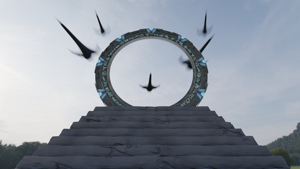
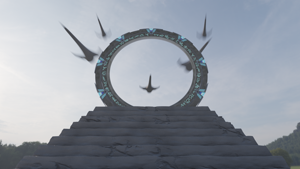
Add atmospherics to stargate

diff --git a/content/Renders/index.md b/content/Renders/index.md
@@ -43,7 +43,7 @@ All tools, textures, and tutorials used are listed below.
 {{< render_img
   description="A Stargate was one of the first things I wanted to make. Finally got around to it!"
   renderdate="2021-4-20"
-  rendertime="5 seconds"
+  rendertime="50 seconds"
   samples="200"
   engine="Cycles (with denoiser node)" >}}
 {{% header_link "Atlantis Stargate" %}}
